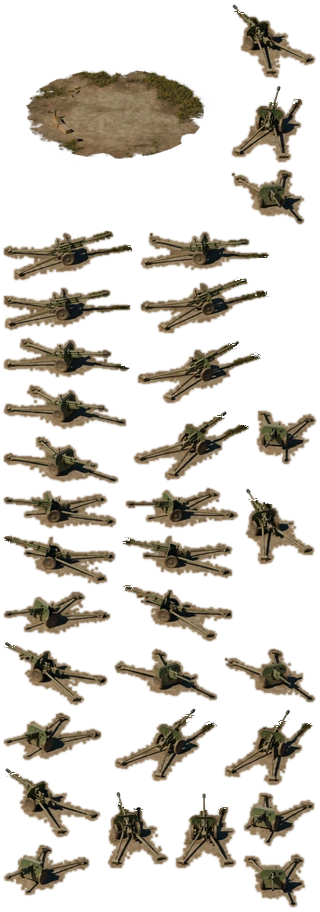
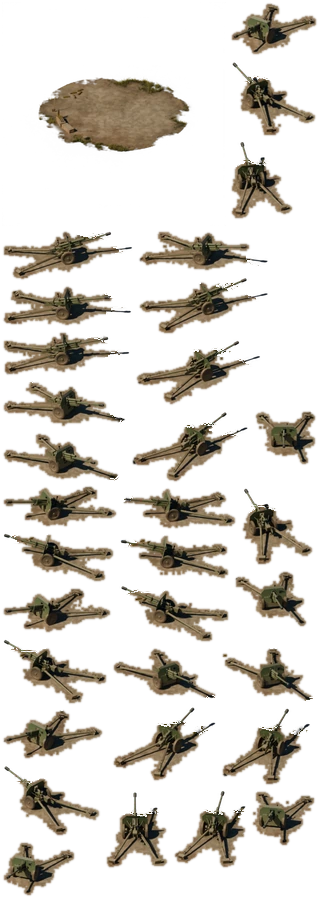
ZIS-3: keep all static art inside a 4 m radius (2x2 tiles of 4 m)
Crates, spent cases, sandbags, log pit, net and pennant moved in; the
pit's spoil bank leaves a gap for the ammunition point. All three levels
re-rendered; the manifest now says footprintRadiusM 4.0.

Claude-Session: https://claude.ai/code/session_01RjoRvKCNSEX4rdXPqefPNy

diff --git a/art/pipeline/strelite_art/models/zis3.py b/art/pipeline/strelite_art/models/zis3.py
@@ -29,7 +29,8 @@ TARGET_Z = 0.7
 SPRITE_FRAME_M = 14.0   # game sprites: metres across the render
 GUN_SHIFT = 1.0         # the gun sits this far forward of the rotation centre
 SWEEP_M = 2.8           # ground-level parts (spades) turn inside this radius
-FOOTPRINT_M = 4.8       # all static art stays inside this radius
+FOOTPRINT_M = 4.0       # all static art stays inside this radius (2x2 tiles of 4 m)
+AMMO_DEG = (-140, -72)  # sector of the ammunition point, toward the camera
 WALL_IN = 2.95          # inner face of the breastwork / the pit wall
 PIT_DEPTH = 0.55
 ELEVATION_DEG = 12.0
@@ -55,10 +56,10 @@ def build(style, level=1):
 
 def ground(level):
     from ..terrain import Patch
-    patch = Patch(r_solid=FOOTPRINT_M, r_out=FOOTPRINT_M + 0.8,
-                  r_bare={1: SWEEP_M + 0.5, 2: 3.9, 3: 4.5}[level], seed=23)
+    patch = Patch(r_solid=FOOTPRINT_M, r_out=FOOTPRINT_M + 0.7,
+                  r_bare={1: SWEEP_M + 0.4, 2: 3.5, 3: 3.75}[level], seed=23, ragged=0.5)
     if level >= 3:
-        patch.pit(WALL_IN + 0.07, PIT_DEPTH, bank=0.3, bank_width=1.2)
+        patch.pit(WALL_IN + 0.07, PIT_DEPTH, bank=0.24, bank_width=0.75, gap=AMMO_DEG)
     return patch
 
 
@@ -292,8 +293,9 @@ def _props(k, root, level):
     """Static kit. The ammunition point is on the sunny side toward the camera."""
     crate76 = dict(size=(0.38, 0.86, 0.26), text="76 ОФ  5 БР.", mat="wood", batten="wood",
                    decal_name="decal_crate76")
-    r0 = {1: 3.7, 2: 3.85, 3: 4.42}[level]
-    stacks = [(-116, 1), (-101, 1)] if level == 1 else [(-128, 3), (-114, 3), (-100, 2), (-87, 2)]
+    r0 = 3.5                        # crates stand between the gun's sweep and the footprint edge
+    gz = ground(level).height if level >= 3 else (lambda x, y: 0.0)     # the pit's spoil bank
+    stacks = [(-116, 1), (-100, 1)] if level == 1 else [(-130, 3), (-114.5, 3), (-99, 2), (-83.5, 2)]
     for i, (deg, high) in enumerate(stacks):
         for j in range(high):
             p = pol(r0 + 0.02 * (j % 2), deg + (1.0 if j % 2 else 0), 0.26 * j)
@@ -307,30 +309,34 @@ def _props(k, root, level):
     for i, dd in enumerate((-9.5, -7.5)):
         _round76(k, root, pol(r0 + 0.06 * i, deg0 + dd), (math.pi / 2, 0, i * 1.1))
     # spent cases thrown clear to the far left
-    rh = {1: 3.6, 2: 3.9, 3: 4.5}[level]
+    rh = {1: 3.4, 2: 3.66, 3: 3.5}[level]
     heap = [(0.0, 172, 25, 0.0), (0.22, 177, -18, 0.0), (0.05, 183, 60, 0.0), (0.3, 168, 5, 0.0),
             (0.16, 188, -40, 0.0)]
     if level >= 2:
         heap += [(0.1, 193, 15, 0.0), (0.28, 181, 80, 0.0), (0.02, 164, -10, 0.0), (0.12, 176, 40, 0.2)]
     for i, (dr, deg, skew, roll) in enumerate(heap):
-        _spent_case(k, root, pol(rh + dr, deg, 0.05 + (0.08 if roll else 0.0)), math.radians(deg + skew), roll)
+        c = pol(rh + dr * 0.7, deg)
+        c.z = gz(c.x, c.y) + 0.05 + (0.08 if roll else 0.0)
+        _spent_case(k, root, c, math.radians(deg + skew), roll)
     # entrenching shovel stuck in the ground, bucket
-    a = pol(r0 + 0.35, -136)
+    a = pol(r0 + 0.28, -139)
     k.tube("shovel_shaft", a + Vector((0, 0, 0.12)), a + Vector((0.08, 0.05, 1.05)), 0.018, "wood",
            parent=root, segs=10)
     k.box("shovel_blade", (0.19, 0.012, 0.26), a + Vector((0, 0, 0.1)), "steel_worn",
           rot=(0.06, 0, 0.9), parent=root, bevel=False)
-    b = pol(r0 + 0.4, -79)
+    b = pol(r0 + 0.25, -74)
     k.cylinder("bucket", 0.11, 0.26, b, "steel_worn", segs=20, parent=root, radius_top=0.14)
     k.torus("bucket_rim", 0.14, 0.008, (b.x, b.y, 0.26), "steel_worn", parent=root, segs=20, tube_segs=6)
 
     if level == 2:
         r_out, _ = fort.sandbag_wall(k, root, WALL_IN, [(20, 215)], courses=4, seed=8)
-        fort.pennant(k, root, pol(r_out + 0.3, 250), height=2.2, yaw=0.5)
+        fort.pennant(k, root, pol(r_out - 0.2, 222), height=2.2, yaw=0.5)
     elif level == 3:
         fort.log_wall(k, root, WALL_IN, [(150, 485)], z0=-PIT_DEPTH - 0.08, z1=0.2)
-        fort.lean_to_net(k, root, r0 - 0.42, r0 + 0.75, -131, -84, top_z=1.75, seed=4)
-        fort.pennant(k, root, pol(4.45, 250), height=2.2, yaw=0.5)
+        fort.lean_to_net(k, root, r0 - 0.25, FOOTPRINT_M - 0.03, -133, -80, top_z=2.0, seed=4)
+        flag = pol(3.55, 224)
+        flag.z = gz(flag.x, flag.y) - 0.05
+        fort.pennant(k, root, flag, height=2.25, yaw=0.5)
         # steps cut into the far side of the pit, faced with planks
         for i in range(3):
             p = pol(WALL_IN - 0.25 + 0.3 * i, 137.5, -PIT_DEPTH + 0.18 * (i + 1) - 0.02)
